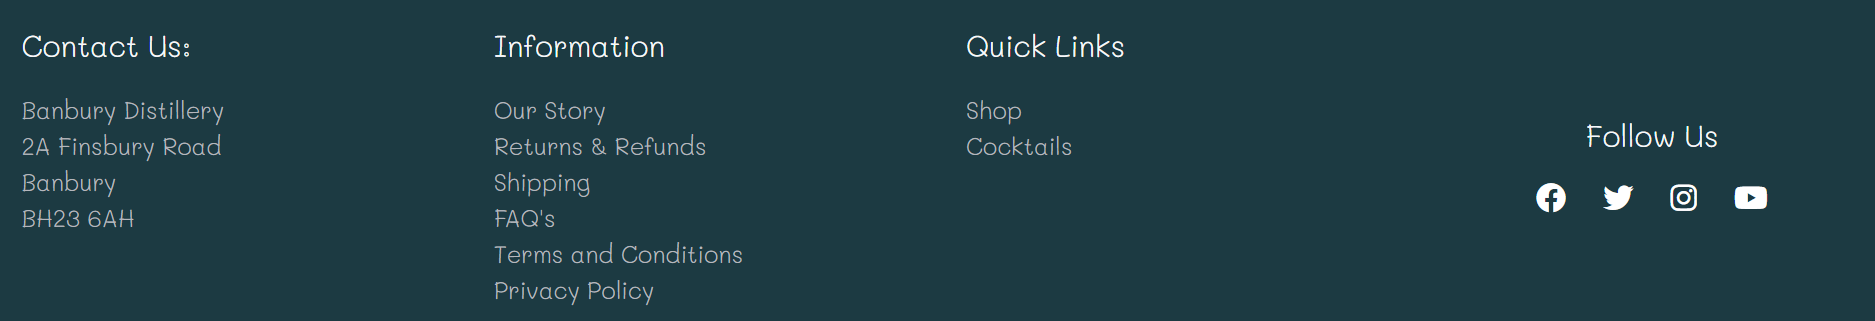
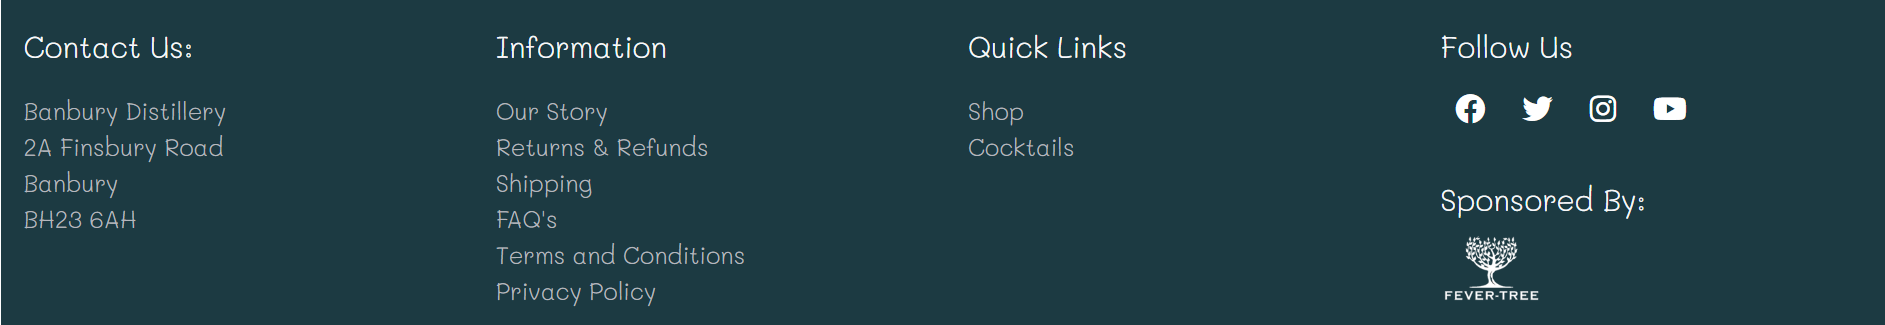
Footer section of the site updated to include the sponsored link

diff --git a/README.md b/README.md
@@ -174,7 +174,7 @@ Users are encouraged to sign up to GinAmore's site, giving them access to featur
 
 ### Footer
 
-The footer of the page provides users with informational resources that help to promote trust between the customer and GinAmore. Furthermore, all of the social network features link to GinAmore's personalised pages, encouraging customers to follow the company for discounts, deals and cocktail recipes.
+The footer of the page provides users with informational resources that help to promote trust between the customer and GinAmore. Furthermore, all of the social network features link to GinAmore's personalised pages, encouraging customers to follow the company for discounts, deals and cocktail recipes. It also contains a sponsored link to 'Fever-Tree' tonics a company that partners with GinAmore and the image links out directly to their site. Linking to this external site improves the google metrics of the company further.
 
 ![Footer](static/images/footer.PNG)
 
